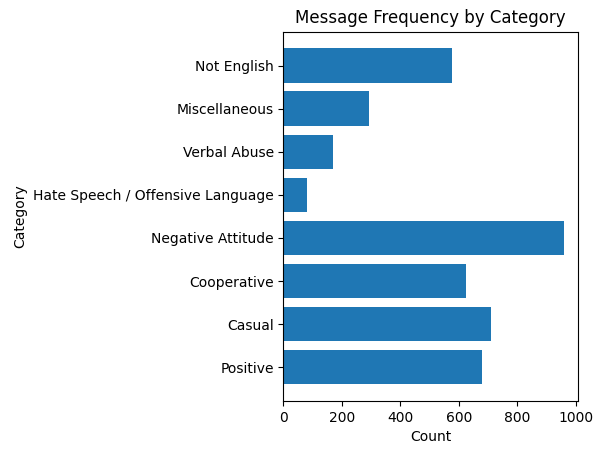
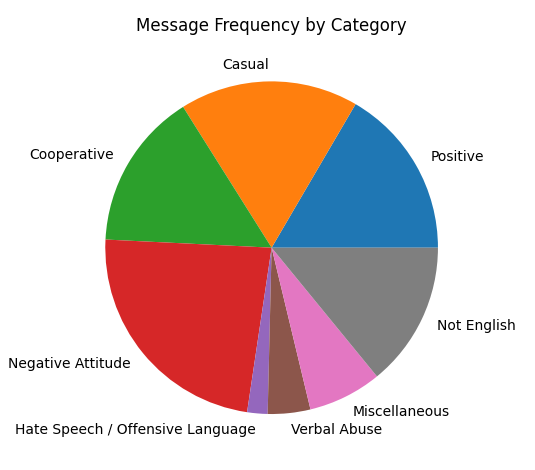
new graph

diff --git a/3-competition-launch/data/visualization.py b/3-competition-launch/data/visualization.py
@@ -18,8 +18,6 @@ for game in data:
     for message in data[game]:
         counts[int(message["label"])] += 1
 
-plt.barh(categories, counts)
+plt.pie(counts, labels=categories)
 plt.title('Message Frequency by Category')
-plt.xlabel('Count')
-plt.ylabel('Category')
 plt.show()
